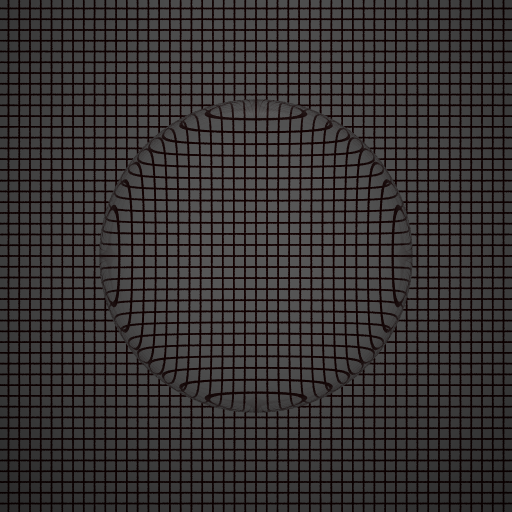
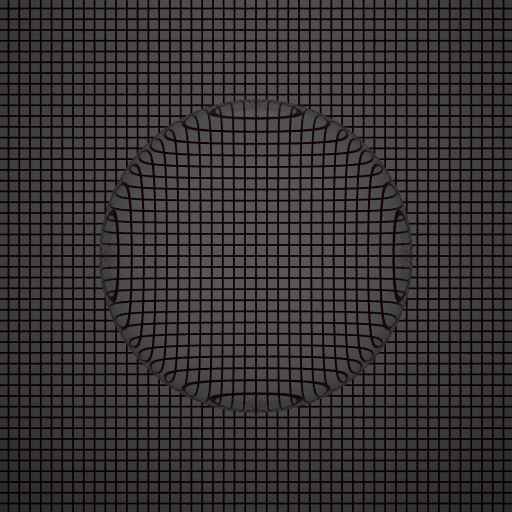
fixed refraction

Changed region(s): [[0.1875, 0.1875, 0.8125, 0.8125]]

diff --git a/rt/src/rt/materials/Refractive.java b/rt/src/rt/materials/Refractive.java
@@ -55,7 +55,11 @@ public class Refractive implements Material {
     @Override
     public ShadingSample evaluateSpecularRefraction(HitRecord hitRecord) {
 
-        ShadingSample s = refract_schlick(hitRecord.normal, StaticVecmath.negate(hitRecord.w), refractiveIndex);
+        Vector3f incident = new Vector3f(hitRecord.w);
+        incident.normalize();
+        incident.negate();
+
+        ShadingSample s = refract_schlick(hitRecord.normal, incident, refractiveIndex);
 
         if (s.w == null) {
             s.brdf = new Spectrum(0, 0, 0);
@@ -85,8 +89,8 @@ public class Refractive implements Material {
     /**
      * Refraction of incident light with Schlick's approximation.
      *
-     * @param normal    The surface normal
-     * @param incident  The incident light direction
+     * @param normal    The surface normal (normalized)
+     * @param incident  The incident light direction (normalized)
      * @param index     Refractive index of the material
      * @return          The shading sample containing the refracted direction w and fresnel term p.
      *                  If the total internal reflection occurs, w is set to null and p = 0.

diff --git a/rt/src/rt/testscenes/RefractiveSphere.java b/rt/src/rt/testscenes/RefractiveSphere.java
@@ -19,7 +19,7 @@ public class RefractiveSphere extends Scene {
 		
 	public RefractiveSphere()
 	{
-		float refractiveIndex = 1.1f;
+		float refractiveIndex = 1.01f;
 
 		// Output file name
 		outputFilename = new String("RefractiveSphere" + refractiveIndex);
